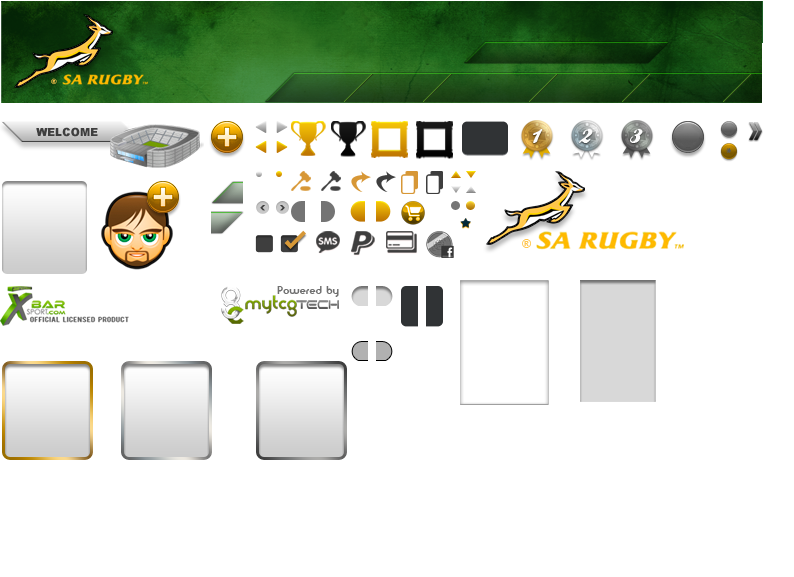
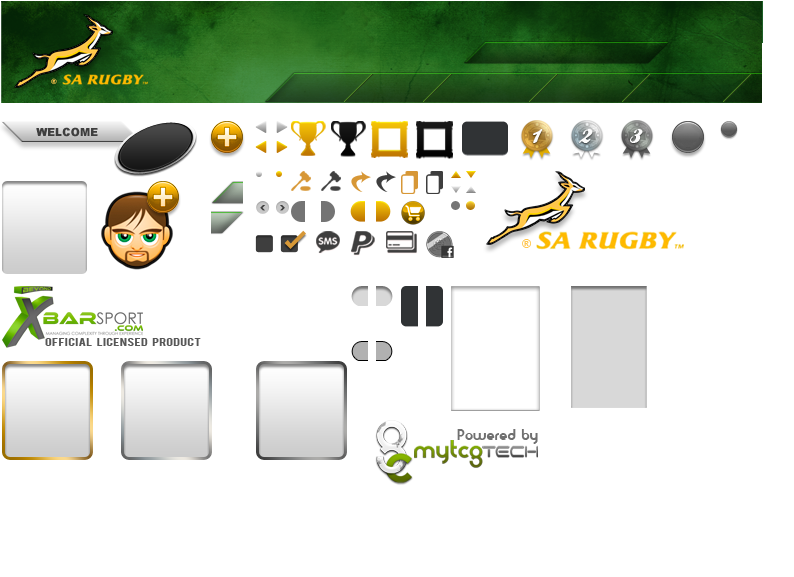
Merged live to local

diff --git a/fbapp_sarugby/_app/application.js b/fbapp_sarugby/_app/application.js
@@ -23,8 +23,16 @@
      	App.initXML = sXML;
      	App.userName = App.getXML(sXML,"username");
      	//CHECK FOR USERS ACCEPTING FRIEND REQUESTS HERE
-     	
      }
+     
+     APP_Main.prototype.browserPopup=function(){
+		userAgent = navigator.userAgent;
+		uaMatch = userAgent.match(/(Firefox|Chrome|MSIE 9.0|Safari|Opera)/i);
+		if(uaMatch == ""){
+		 App.showNotice("We see you are using an outdated browser. Support for older version are very limited. Too fix this, you can simply update your current browser.",0,true)
+		}
+	 };
+     
      APP_Main.prototype.calcAuctionCost=function(sMin,sPrice){
      	sMin = parseInt(sMin);
      	sPrice = parseInt(sPrice);
@@ -2725,17 +2733,21 @@ var App = new APP_Main();
 
 //THE REAL SLIM SHADY... I mean DOC.READY
 $(document).ready (function(){
-	App.callAjax("_app/main.php?init=1",function(xml){
-		App.init(xml); 
-	});
 	
-     FB.init({
-       appId      : '342203842518329', // App ID
-       status     : true, // check login status
-       cookie     : true, // enable cookies to allow the server to access the session
-      // oauth       : true, 
-      // channelUrl : '//www.sarugbycards.com/fbapp/index.php', // Channel File
-     });
+	App.browserPopup();
+	
+	App.callAjax("_app/main.php?init=1",function(xml){
+		App.init(xml);
+	});
+	if(sURL.indexOf("localhost") == 0){
+	     FB.init({
+	       appId      : '342203842518329', // App ID
+	       status     : true, // check login status
+	       cookie     : true, // enable cookies to allow the server to access the session
+	       oauth       : true, 
+	       channelUrl : '//www.sarugbycards.com/fbapp/index.php', // Channel File
+	     });
+     }
     
     function buy($credits){
 		App.creditsAmount=$credits;

diff --git a/fbapp_sarugby/css/stylesheet.css b/fbapp_sarugby/css/stylesheet.css
@@ -84,7 +84,7 @@ span{
 
 .divSigninText{
   position: absolute;
-  top:326px;
+  top:386px;
   left:115px;
   width:580px;
   font-size:11px;
@@ -3585,20 +3585,19 @@ input[type="submit"] {
 	*/
 }
 .official{
-	background:url(../_site/all.png) 0px -280px no-repeat;
+	background:url(../_site/all.png) 0px -285px no-repeat;
 	left:10px;
-	top:7px;
-	width:210px;
-	height:70px;
+	width:203px;
+	height:62px;
 	float:left;
 	position: relative;
 }
 .poweredby{
 	float:left;
-	background:url(../_site/all.png) -215px -280px no-repeat;
-    height: 60px;
-    left: 400px;
-    width: 130px;
+	background:url(../_site/all.png) -376px -420px no-repeat;
+    height: 65px;
+    left: 390px;
+    width: 163px;
     top:10px;
     position:relative;
 }

diff --git a/fbapp_sarugby/signup.php b/fbapp_sarugby/signup.php
@@ -2,34 +2,35 @@
 require_once("configuration.php");
 require_once("functions.php");
 
-require_once("facebooksdk/facebook.php");
-$user = null; //facebook user ui
-$facebook = new Facebook(array(
-  'appId'  => $fbconfig['appid'],
-  'secret' => $fbconfig['secret'],
-  'cookie' => true,
-));
-$fbuser = $facebook->getUser(); //TRY TO GET USER DETAILS IF AUTHENTICATED
-
-if (!$fbuser) {
-  $loginUrl   = $facebook->getLoginUrl( array('scope' => 'publish_stream') );
-  echo "<script type='text/javascript'>top.location.href = '$loginUrl';</script>";
-  exit;
-}else{
-  $userProfile = $facebook->api('/me');
-  $_SESSION['userProfile'] = $userProfile;
+if(!$localhost){
+	require_once("facebooksdk/facebook.php");
+	$user = null; //facebook user ui
+	$facebook = new Facebook(array(
+	  'appId'  => $fbconfig['appid'],
+	  'secret' => $fbconfig['secret'],
+	  'cookie' => true,
+	));
+	$fbuser = $facebook->getUser(); //TRY TO GET USER DETAILS IF AUTHENTICATED
+	
+	if (!$fbuser) {
+	  $loginUrl   = $facebook->getLoginUrl( array('scope' => 'publish_stream') );
+	  echo "<script type='text/javascript'>top.location.href = '$loginUrl';</script>";
+	  exit;
+	}else{
+	  $userProfile = $facebook->api('/me');
+	  $_SESSION['userProfile'] = $userProfile;
+	}
+	if (isset($_GET['code'])){
+	  header("Location: " . $fbconfig['appBaseUrl']);
+	}
+	if (isset($_GET['request_ids'])){
+	  
+	}
+	$user = myqu("SELECT username FROM mytcg_user WHERE facebook_user_id = '".$userProfile['id']."' LIMIT 1");
+	if($user){
+	  header("Location: home.php");
+	}
 }
-if (isset($_GET['code'])){
-  header("Location: " . $fbconfig['appBaseUrl']);
-}
-if (isset($_GET['request_ids'])){
-  
-}
-$user = myqu("SELECT username FROM mytcg_user WHERE facebook_user_id = '".$userProfile['id']."' LIMIT 1");
-if($user){
-  header("Location: home.php");
-}
-
 ?>
 <!DOCTYPE HTML PUBLIC "-//W3C//DTD HTML 4.01 Transitional//EN" "http://www.w3.org/TR/html4/strict.dtd">
 <html xmlns:fb="http://www.facebook.com/2008/fbml">
@@ -65,6 +66,8 @@ if($user){
     
     $("#register").click(function(){
       	$("#txtResponse").fadeIn();
+      	var name = $("#name").val();
+        var surname = $("#surname").val();
         var email_address = $("#email_address").val();
         var password = $("#password").val();
         var age = $("#age").val();
@@ -78,11 +81,18 @@ if($user){
 		}else if(age==""){
 			$("#age").focus();
 			$("#txtResponse").fadeOut();
-		}else if(gender==undefined){
+		}else if(name==""){
+			$("#name").focus();
+			$("#txtResponse").fadeOut();
+		}else if(surname==""){
+			$("#surname").focus();
+			$("#txtResponse").fadeOut();
+		}
+		else if(gender==undefined){
 			$("#gender").focus();
 			$("#txtResponse").fadeOut();
 		}else{
-	        $.post("_app/main.php?signup=1&email_address="+email_address+"&password="+password+"&age="+age+"&gender="+gender,function(data){
+	        $.post("_app/main.php?signup=1&email_address="+email_address+"&password="+password+"&age="+age+"&gender="+gender+"name="+name+"surname="+surname,function(data){
 	        	if(data == "1"){
 	        		location.href = "<?php echo($fbconfig['baseUrl']); ?>";	
 	        	}else{
@@ -125,12 +135,22 @@ if($user){
         <div class="divSignin"></div>
         <div class="divSign"><span>Sign</span> In</div>
         <div class="divSigninBox" style="top:202px;left:115px;">
+          <div syle="">
+	          <span>Name</span><br />
+	          <input type="text" class="signin" id="name" />
+          </div>
+          <div style="position: absolute;left:250px;">
+          	<span>Sur</span>name<br />
+          	<input type="text" class="signin" id="surname" />
+          </div>
+        </div>
+        <div class="divSigninBox" style="top:262px;left:115px;">
           <span>Email</span> address<br />
           <input type="text" class="signin" id="email_address" /><br /><br />
           <span>Pass</span>word<br />
           <input type="text" class="signin" id="password" />
         </div>
-        <div class="divSigninBox" style="top:202px;left:385px;">
+        <div class="divSigninBox" style="top:262px;left:365px;">
           <span>Age</span><br />
           <input type="text" class="signin" id="age" style="width:30px;" maxlength="3" /><br /><br />
           <span>Gender</span><br />

diff --git a/fbapp_sarugby/_app/main.php b/fbapp_sarugby/_app/main.php
@@ -44,6 +44,9 @@ if($_GET['signup']){
   $sPassword = $_GET["password"];
   $sAge = $_GET["age"];
   $sGender = $_GET["gender"];
+  $sName = $_GET["name"];
+  $sSurname = $_GET["surname"];
+  
   
   $sql = "SELECT user_id FROM mytcg_user WHERE email_address='".$sEmail."'";
   $getUser = myqu($sql);
@@ -52,7 +55,7 @@ if($_GET['signup']){
     exit;
   }
   
-  $sql = "INSERT INTO mytcg_user (date_register,username,email_address,age,gender,facebook_user_id) VALUES (NOW(),'".$sEmail."','".$sEmail."',".$sAge.",".$sGender.",'".$userProfile['id']."')";
+  $sql = "INSERT INTO mytcg_user (name,surname,date_register,username,email_address,age,gender,facebook_user_id) VALUES ('".$sName."','".$sSurname."',NOW(),'".$sEmail."','".$sEmail."',".$sAge.",".$sGender.",'".$userProfile['id']."')";
   $res = myqu($sql);
   
   $sql = "SELECT user_id FROM mytcg_user WHERE email_address='".$sEmail."'";

diff --git a/fbapp_sarugby/configuration.php b/fbapp_sarugby/configuration.php
@@ -1,25 +1,24 @@
 <?php
+$localhost = ($_SERVER['HTTP_HOST']=='localhost') ? true : false ;
 session_start();
 
 //Var short
 $sCRLF="\r\n";
 $sTab=chr(9);
 
-//$db['host'] = "localhost";
-//$db['database'] = "gamecard";
-//$db['username'] = "root";
-//$db['password'] = "";
-//$db['pre'] = "mytcg";
-
-
-//Database Config
-
-$db['host'] = "localhost";
-$db['database'] = "sarugmhnuf_db1";
-$db['username'] = "sarugmhnuf_1";
-$db['password'] = "j2gcuH88";
-$db['pre'] = "mytcg";
-
+if($localhost){
+	$db['host'] = "localhost";
+	$db['database'] = "gamecard";
+	$db['username'] = "root";
+	$db['password'] = "";
+	$db['pre'] = "mytcg";
+}else{
+	$db['host'] = "localhost";
+	$db['database'] = "sarugmhnuf_db1";
+	$db['username'] = "sarugmhnuf_1";
+	$db['password'] = "j2gcuH88";
+	$db['pre'] = "mytcg";
+}
 
 //Faceboook Config
 $fbconfig['appid'] = "342203842518329";

diff --git a/fbapp_sarugby/index.php b/fbapp_sarugby/index.php
@@ -1,7 +1,13 @@
 <?php
 require_once("configuration.php");
 require_once("functions.php");
-require_once("fbuser.php");
+if(!$localhost){
+	require_once("fbuser.php");
+}
+
+if(!$_SESSION['auctions']){
+	require_once("process_auctions.php");
+}
 
 function TopMenu($need,$have) {
 	if ($have >= $need) {
@@ -15,13 +21,15 @@ function TopMenu($need,$have) {
  		echo("navMenuItem_active");
  	}
  }
+if($localhost){
+	$user['user_id'] = 92;
+	$user['username'] = "Senjiro";
+	$user['premium'] = 1865;
+	$user['gameswon'] = 2;
+	$user['xp'] = 110;
+	$user['facebook_process'] = 3;
+}
 
-// $user['user_id'] = 92;
-// $user['username'] = "Senjiro";
-// $user['premium'] = 1865;
-// $user['gameswon'] = 2;
-// $user['xp'] = 110;
-// $user['facebook_process'] = 3;
 if($user['premium']==NULL){
 	$user['premium'] = 0;
 }

diff --git a/fbapp_sarugby/_app/views/dashboard.php b/fbapp_sarugby/_app/views/dashboard.php
@@ -62,7 +62,7 @@
 			<div class="segregation" style="top:5px;right:0px;"></div>
 		</div>
 		<div id="aContainer">
-			<div style="font-size:24px;margin:13% 32% 13%;width:250px;">COMING SOON</div>
+			<div style="margin-left:50px;"><img src="_site/coming_soon.png" /></div>
 			<div id="trophies" style="display:none">
 				<div class="leaderLeftArrow"></div>
 				<div id="achiev">
